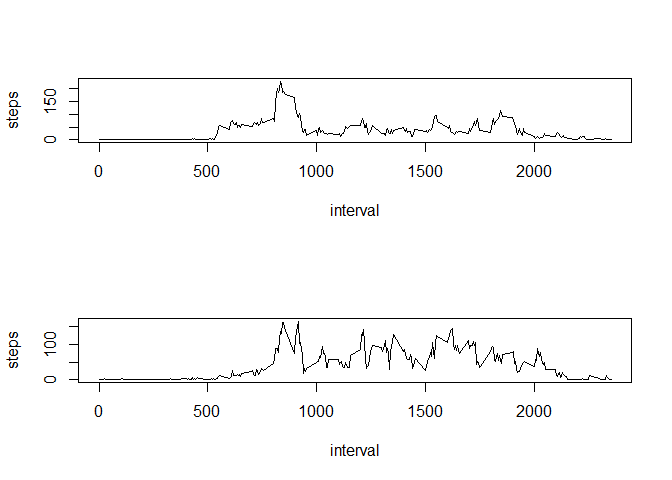
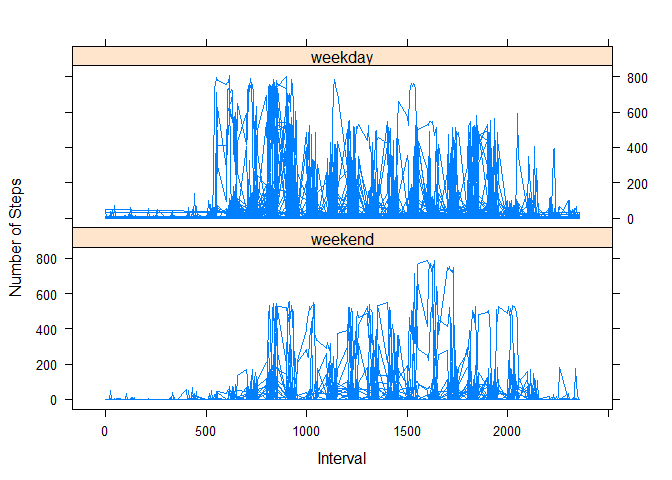
Commit Done

diff --git a/PA1_template.html b/PA1_template.html
@@ -407,18 +407,13 @@ print(median_agg)</code></pre>
 </div>
 <div id="are-there-differences-in-activity-patterns-between-weekdays-and-weekends" class="section level2">
 <h2>Are there differences in activity patterns between weekdays and weekends?</h2>
-<pre class="r"><code>weekday &lt;- c(&quot;Monday&quot;, &quot;Tuesday&quot;, &quot;Wednesday&quot;, &quot;Thursday&quot;, &quot;Friday&quot;)
+<pre class="r"><code>library(lattice)
+weekday &lt;- c(&quot;Monday&quot;, &quot;Tuesday&quot;, &quot;Wednesday&quot;, &quot;Thursday&quot;, &quot;Friday&quot;)
 data1$dayname &lt;- factor((weekdays(data1$date) %in% weekday), 
                         levels=c(FALSE, TRUE), labels=c('weekend', 'weekday'))
 
-par(mfrow = c(2,1))
-
-mean_weekday &lt;- aggregate(steps ~ interval, data1[data1$dayname == &quot;weekday&quot;,], FUN = mean)
-with(mean_weekday, plot(interval, steps, type = &quot;l&quot;))
-
-mean_weekend &lt;- aggregate(steps ~ interval, data1[data1$dayname == &quot;weekend&quot;,], FUN = mean)
-with(mean_weekend, plot(interval, steps, type = &quot;l&quot;))</code></pre>
[1 lines of base64/hex data omitted]
+with(data1, xyplot(steps ~ interval|dayname, xlab = &quot;Interval&quot;, ylab = &quot;Number of Steps&quot;, layout = c(1,2), type = &quot;l&quot;))</code></pre>
[1 lines of base64/hex data omitted]
 </div>
 
 

diff --git a/PA1_template.md b/PA1_template.md
@@ -332,17 +332,12 @@ print(median_agg)
 
 
 ```r
+library(lattice)
 weekday <- c("Monday", "Tuesday", "Wednesday", "Thursday", "Friday")
 data1$dayname <- factor((weekdays(data1$date) %in% weekday), 
                         levels=c(FALSE, TRUE), labels=c('weekend', 'weekday'))
 
-par(mfrow = c(2,1))
-
-mean_weekday <- aggregate(steps ~ interval, data1[data1$dayname == "weekday",], FUN = mean)
-with(mean_weekday, plot(interval, steps, type = "l"))
-
-mean_weekend <- aggregate(steps ~ interval, data1[data1$dayname == "weekend",], FUN = mean)
-with(mean_weekend, plot(interval, steps, type = "l"))
+with(data1, xyplot(steps ~ interval|dayname, xlab = "Interval", ylab = "Number of Steps", layout = c(1,2), type = "l"))
 ```
 
 ![](PA1_template_files/figure-html/unnamed-chunk-6-1.png)<!-- -->
